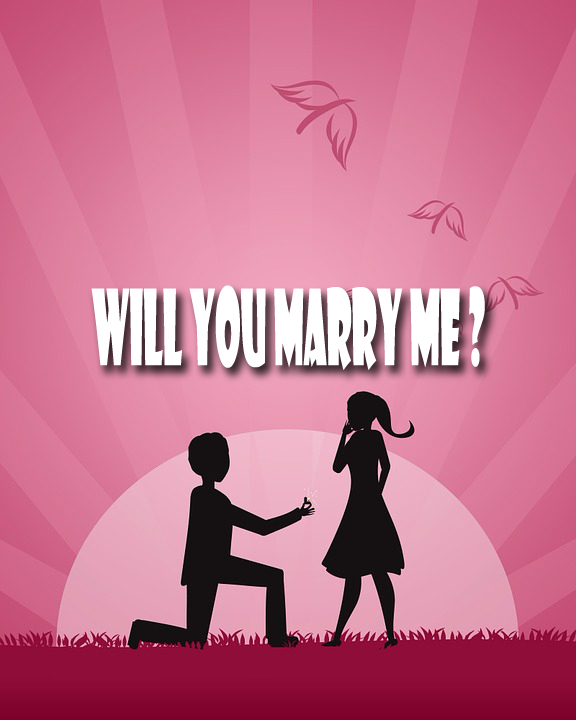
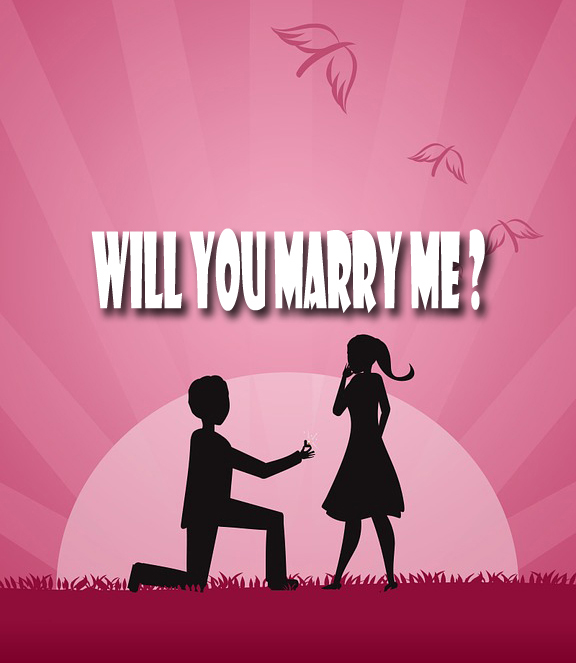
finish proposal game

diff --git a/games/proposal/proposal.css b/games/proposal/proposal.css
@@ -5,12 +5,12 @@
 #myCanvas {
 	background-image: url('background.jpg');
 	margin: auto;
+	margin-bottom: 20px;
 	width: 676px;
 	height: 720px;
-	/* background-attachment:fixed; */
+	background-size: 100% 100%;
 	background-position:center;
 	background-repeat: none;
-	/* background-size: cover; */
 	border: 5px solid red;
 	text-align: center;
 	border-radius: 20px;
